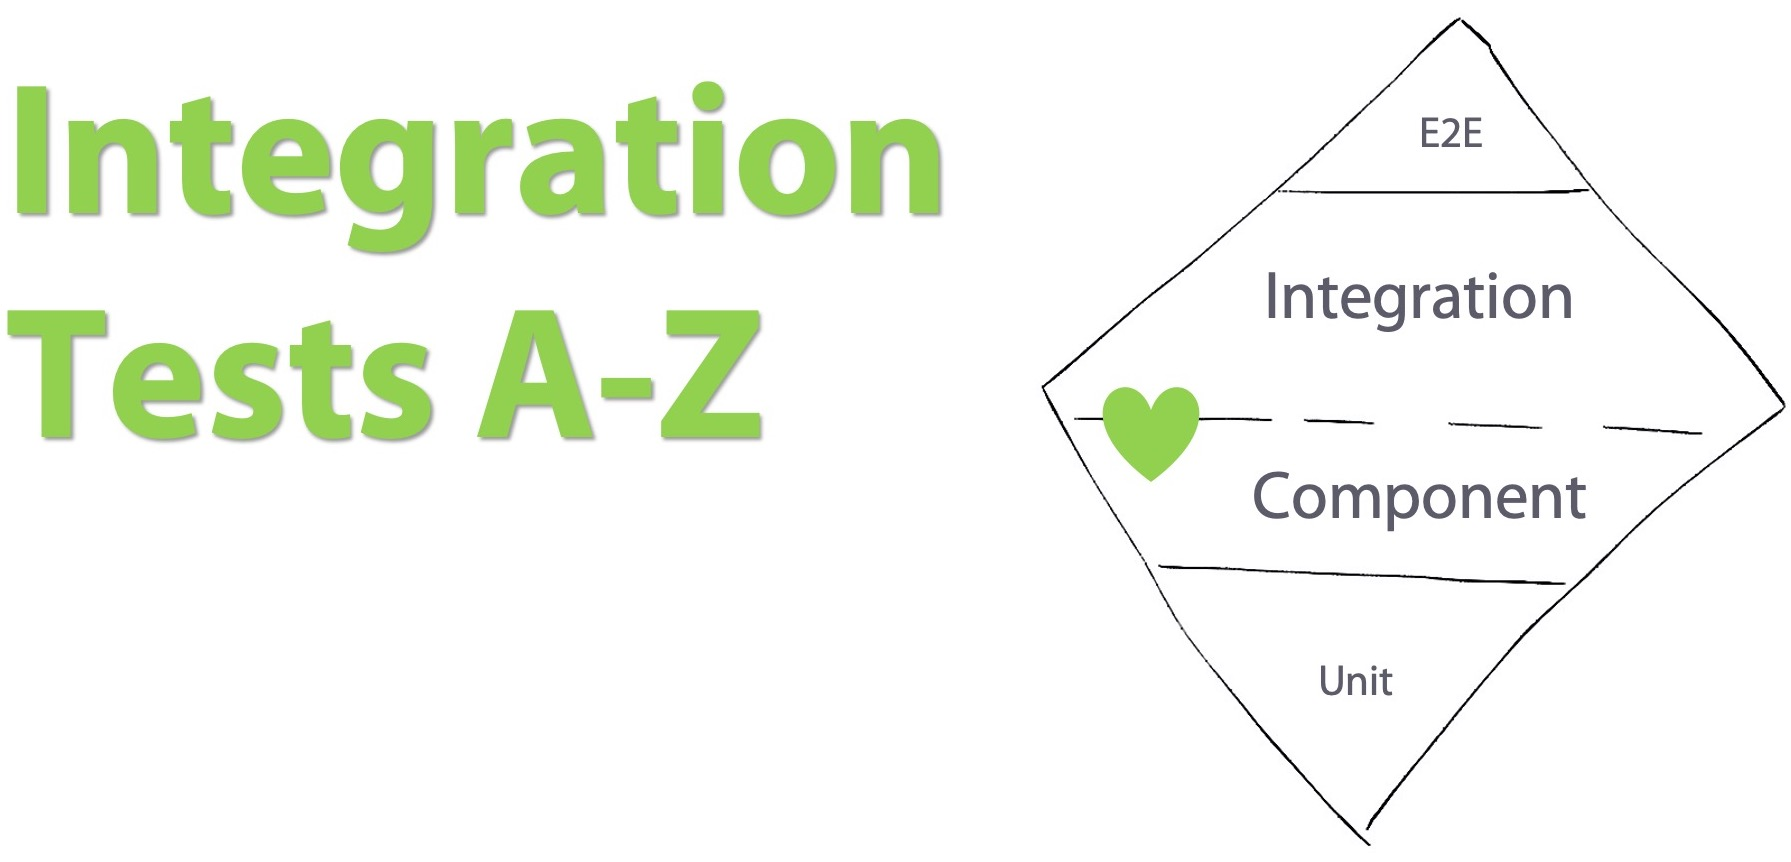
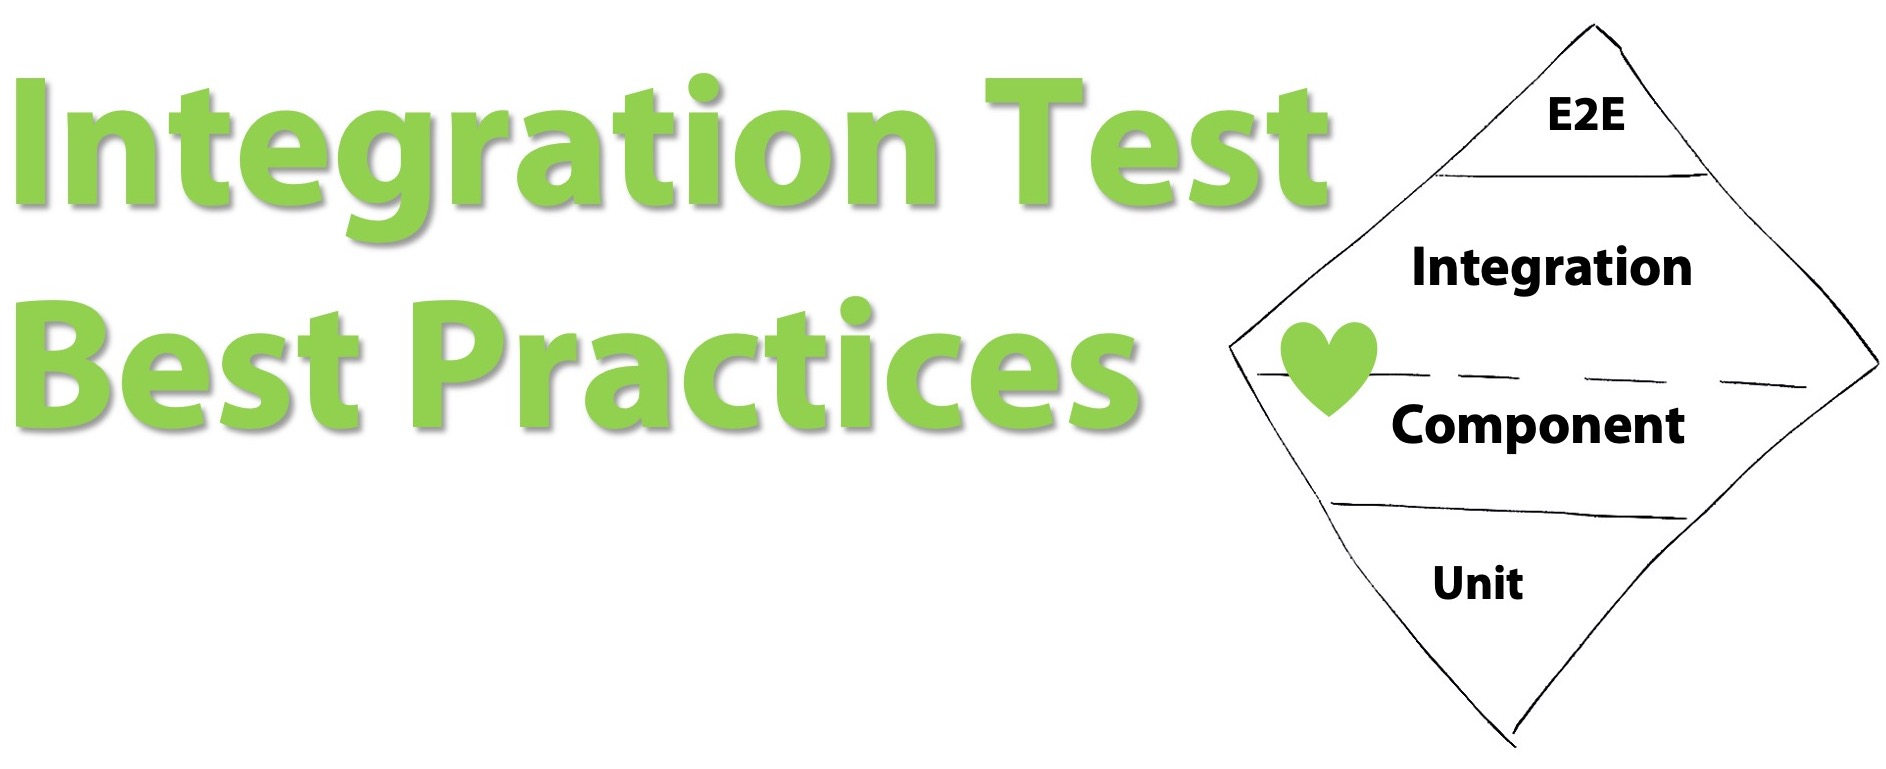
Genric message

diff --git a/README.md b/README.md
@@ -1,4 +1,4 @@
-![Header](/graphics/main-header-v2.jpg "Component Tests")
+![Header](/graphics/main-header.jpg "Component Tests")
 
 <br/>
 
@@ -10,7 +10,7 @@
 
 # Intro
 
-This repo shows the immense power of narrow integration tests, also known as 'component test', including examples and how to set them up properly. This might make a huge impact on your testing effort and success 🚀
+This repo shows the immense power of narrow integration tests, also known as 'component test', including examples and how to set them up properly. This might make a dramatic impact on your testing effort and success 🚀
 
 ![Header](/graphics/component-diagram.jpg "Component Tests")
 
@@ -28,7 +28,7 @@ This repo provides the following benefits and assets:
 
 **1. 📊  Example application -** Complete showcase of a typical Microservice with tests setup and the test themselves
 
-**2. 🦶. Step by step guide -** Detailed instructions on how to setup your intergation test environment and write tests according to best practices
+**2. ✅ 40+ Best Practices List -** Detailed instructions on how to write integartiong tests in the RIGHT way including code example and reference to the example application
 
 **3. 🚀   Advanced stuff -** How to take this technique to the next level and maximize your invest. This includes beyond the basics techniques like store your DB data in a fast RAM folder, detect memory leaks during tests, testing data migrations, contract tests and more
 
@@ -40,11 +40,11 @@ Some details on the example applications and link to the folder
 
 <br/><br/><br/>
 
-# Step by step guide to get up to speed
+# ✅ Best Practices
 
 <br/>
 
-## Part 1: Web server setup
+## Web server setup
 
 <br/>
 
@@ -56,13 +56,36 @@ For proper startup and teardown, the app entry point (e.g. webserver start code)
 <br/>
 
 👀 **Alternatives:**
-The application under test can avoid opening connections and delegate this to the test, however this will make a change between production and test code. Alternativelly, one can just let the test runner kill the resources but then with frequent testing many connections will leak and might choke the machine
+The application under test can avoid opening connections and delegate this to the test, however this will make a change between production and test code. Alternativelly, one can just let the test runner kill the resources then with frequent testing many connections will leak and might choke the machine
 
 <br/>
 
 <details><summary>✏ <b>Code Examples</b></summary>
+
+```
+const initializeWebServer = async (customMiddleware) => {
+  return new Promise((resolve, reject) => {
+    // A typical Express setup
+    expressApp = express();
+    defineRoutes(expressApp);
+    connection = expressApp.listen(() => {
+      resolve(expressApp);
+    });
+  });
+}
+
+const stopWebServer = async () => {
+  return new Promise((resolve, reject) => {
+    connection.close(() => {
+      resolve();
+    })
+  });
+}
+```
+
+➡️ [Full code here](https://github.com/testjavascript/integration-tests-a-z/blob/4c76cb2e2202e6c1184d1659bf1a2843db3044e4/example-application/api-under-test.js#L10-L34
+)
   
-  https://github.com/testjavascript/integration-tests-a-z/blob/4c76cb2e2202e6c1184d1659bf1a2843db3044e4/example-application/api-under-test.js#L10-L34
 
 </details>
 
@@ -225,7 +248,7 @@ https://github.com/testjavascript/integration-tests-a-z/blob/06c02a4b56b07fd08f1
 
 <br/><br/>
 
-# Advanced techniques
+# Advanced techniques and reference to all features
 
 <br/><br/><br/>
 ****